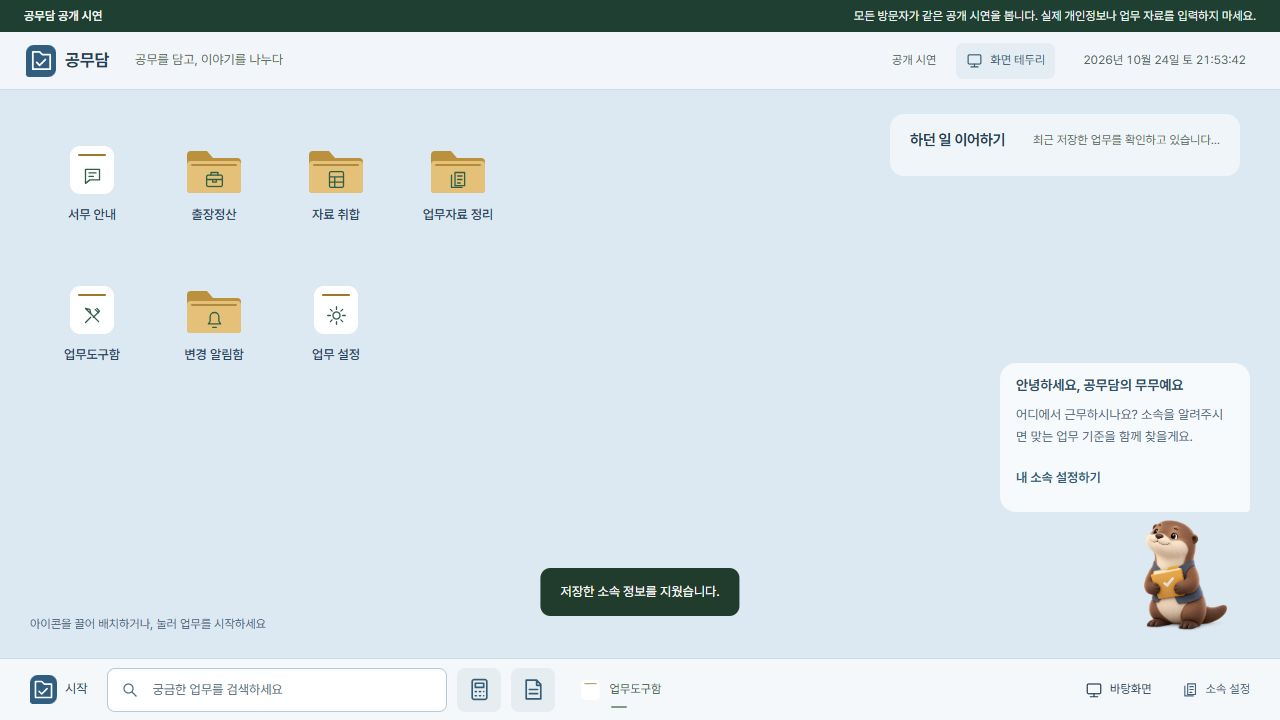
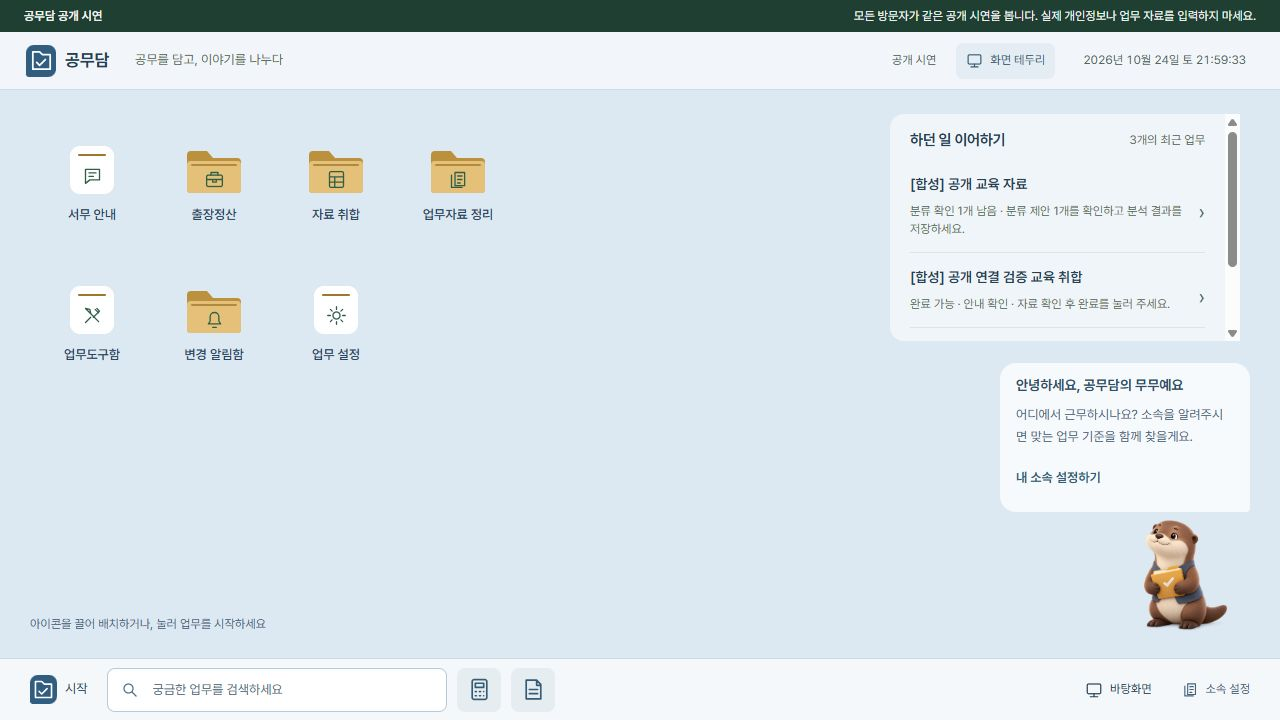
Polish desktop layout and refresh deployment evidence

diff --git a/desktop/service-bridge.css b/desktop/service-bridge.css
@@ -13,3 +13,4 @@
 .recent-work-item:after{content:'›';position:absolute;right:0;top:40%;color:#506b59;font-size:20px}
 #calendar-open{display:grid;place-items:center;padding:4px 8px;border-radius:7px;background:transparent;color:inherit}
 #calendar-open:hover{background:#eef3ee}
+@media(min-width:701px){body.approved-design[data-variant=B] .work-shelf{box-sizing:border-box;max-height:min(40%,calc(100% - 320px));overflow-y:auto}}

diff --git a/docs/VERIFICATION.md b/docs/VERIFICATION.md
@@ -1,5 +1,7 @@
 # GitHub 보관본 검증 — 2026-10-24
 
+이 문서는 최초 사본 등록 시점의 기록입니다. 이후 B안 연결과 공개 배포를 완료했으며 현재 검증은 [연결·배포 기록](INTEGRATION-20261024.md)을 참고하세요.
+
 이 기록은 기존 업무 서비스 v69와 공무담 B안을 새 폴더에 복사해 GitHub에 보관하기 위한 확인 결과입니다. 기존 실행 서버·업무 DB·브라우저 소속·메모는 변경하지 않았습니다. 다른 물리 PC에서의 검증은 아니며, 같은 Windows PC의 새 폴더와 새 가상환경에서 확인했습니다.
 
 ## 이번에 실행한 확인
@@ -42,6 +44,6 @@
 
 자바스크립트 문법 검사는 별도로 설치한 Node.js의 `node --check desktop/파일명.js`로 실행할 수 있습니다. Node.js는 일반 앱 실행의 필수 조건이 아닙니다.
 
-## 현재 남은 연결
+## 최초 등록 당시의 연결 상태
 
-B안의 기관 검색·계산기·메모장은 작동하며, 업무 화면과 AI 대화는 시안입니다. 기존 서비스와 B안의 API 연결 및 `gongmudam.visanu81.workers.dev` 배포는 아직 수행하지 않았습니다. 이 저장소 업로드를 클라우드 서비스 가동이나 다른 PC에서의 모델 연결 검증으로 해석하면 안 됩니다. 실행 방법은 [README](../README.md), 배포 고려 사항은 [DEPLOYMENT.md](DEPLOYMENT.md)에 있습니다.
+최초 사본 등록 때에는 B안의 업무 화면과 AI 대화가 시안이었고 공개 배포 전이었습니다. 이후 같은 날짜에 기존 API 연결과 Workers 배포를 완료했습니다. 현재 실행 방법은 [README](../README.md), PC 연결 조건은 [DEPLOYMENT.md](DEPLOYMENT.md)에 있습니다.
